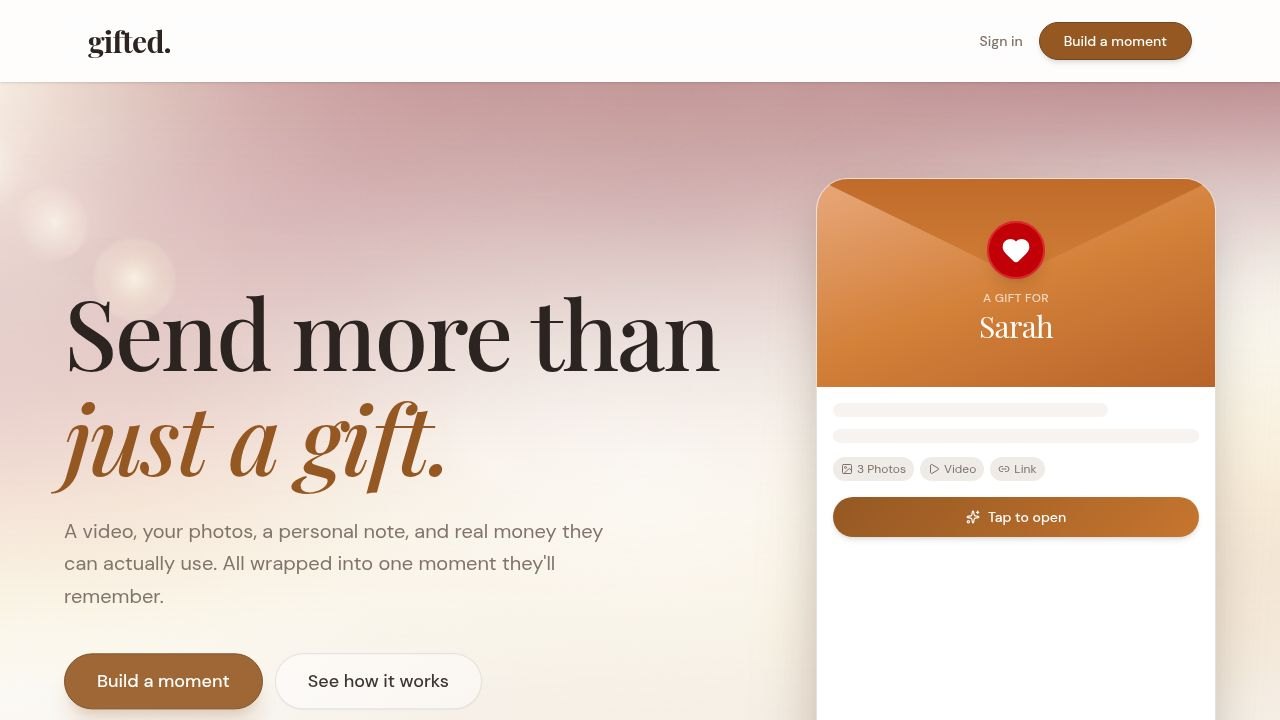
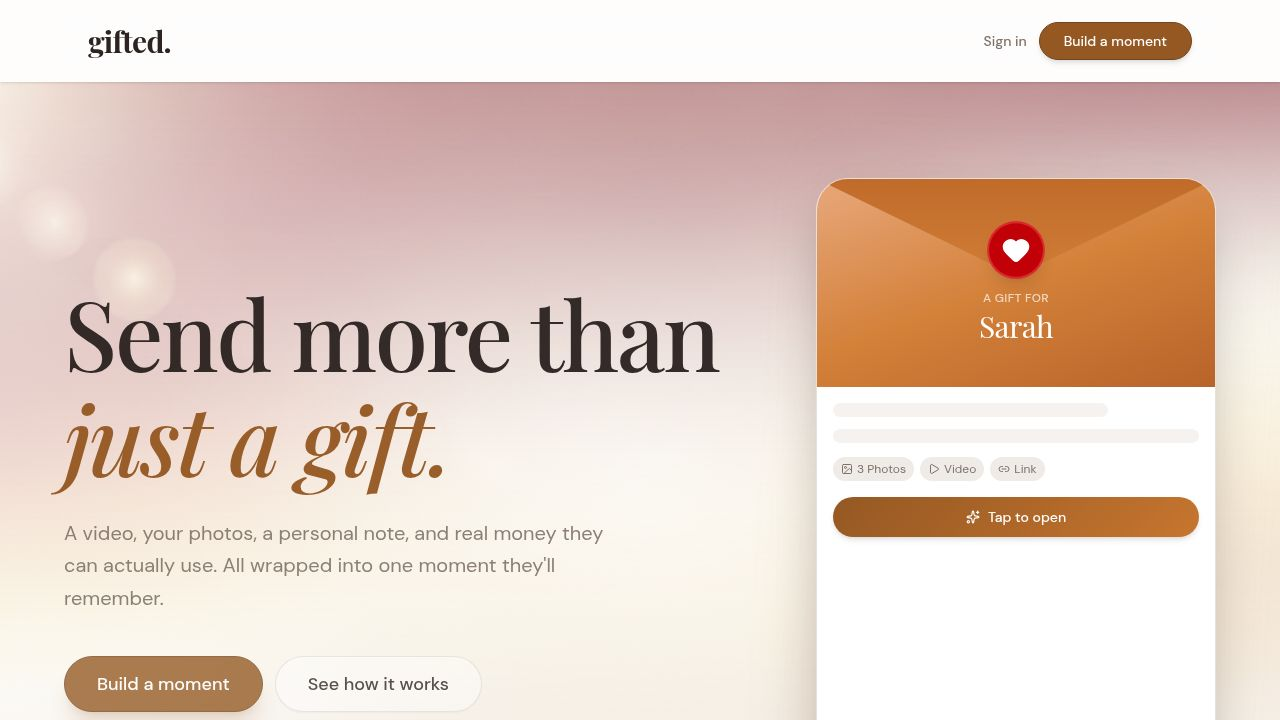
Add optional occasion details to contact forms and update navigation
Add a "My Gifts" link and notification icon to the navigation for authenticated users. Enhance the contact form to include an optional occasion section with fields for label, month, and day. Also, make the back link on the account page more descriptive.

Replit-Commit-Author: Agent
Replit-Commit-Session-Id: 690b6bda-22b3-4b46-8788-3d3ea9f7ed15
Replit-Commit-Checkpoint-Type: full_checkpoint
Replit-Commit-Event-Id: 18842ae0-4f68-4165-a854-bc976afd1a5d
Replit-Commit-Screenshot-Url: https://storage.googleapis.com/screenshot-production-us-central1/d0a4da48-153e-45a8-be82-d792a978206f/690b6bda-22b3-4b46-8788-3d3ea9f7ed15/vFPnjNm
Replit-Helium-Checkpoint-Created: true

diff --git a/artifacts/gifted/src/components/layout.tsx b/artifacts/gifted/src/components/layout.tsx
@@ -9,7 +9,7 @@ import {
   DropdownMenuSeparator,
   DropdownMenuTrigger,
 } from "@/components/ui/dropdown-menu";
-import { User, Gift, LogOut, ChevronDown, Settings } from "lucide-react";
+import { User, Gift, LogOut, ChevronDown, Settings, Bell } from "lucide-react";
 import { clearGiftSession } from "@/lib/session";
 
 export function Layout({ children }: { children: React.ReactNode }) {
@@ -41,43 +41,58 @@ export function Layout({ children }: { children: React.ReactNode }) {
           <a href="/" onClick={handleLogoClick} className="font-serif text-3xl font-bold text-foreground tracking-tight hover:opacity-80 transition-opacity cursor-pointer">
             gifted.
           </a>
-          <nav className="flex items-center gap-4">
+          <nav className="flex items-center gap-3">
             {!isLoading && (
               isAuthenticated && user ? (
-                <DropdownMenu>
-                  <DropdownMenuTrigger asChild>
-                    <button className="flex items-center gap-2 text-sm font-medium text-muted-foreground hover:text-foreground transition-colors px-2 py-1 rounded-full">
-                      {user.profileImageUrl ? (
-                        <img src={user.profileImageUrl} alt="" className="w-7 h-7 rounded-full object-cover" />
-                      ) : (
-                        <div className="w-7 h-7 rounded-full bg-primary/10 flex items-center justify-center">
-                          <User className="w-4 h-4 text-primary" />
-                        </div>
-                      )}
-                      <span className="hidden sm:block">{displayName}</span>
-                      <ChevronDown className="w-3.5 h-3.5 opacity-60" />
-                    </button>
-                  </DropdownMenuTrigger>
-                  <DropdownMenuContent align="end" className="w-52 rounded-2xl">
-                    <DropdownMenuItem asChild>
-                      <Link href="/my-gifts" className="flex items-center gap-2 cursor-pointer">
-                        <Gift className="w-4 h-4" />
-                        My Gifts
-                      </Link>
-                    </DropdownMenuItem>
-                    <DropdownMenuItem asChild>
-                      <Link href="/account" className="flex items-center gap-2 cursor-pointer">
-                        <Settings className="w-4 h-4" />
-                        Account settings
-                      </Link>
-                    </DropdownMenuItem>
-                    <DropdownMenuSeparator />
-                    <DropdownMenuItem onClick={logout} className="flex items-center gap-2 cursor-pointer text-muted-foreground">
-                      <LogOut className="w-4 h-4" />
-                      Sign out
-                    </DropdownMenuItem>
-                  </DropdownMenuContent>
-                </DropdownMenu>
+                <>
+                  <Link
+                    href="/my-gifts"
+                    className={`hidden sm:flex items-center gap-1.5 text-sm font-medium transition-colors px-3 py-1.5 rounded-full hover:bg-secondary ${location === "/my-gifts" ? "text-foreground bg-secondary" : "text-muted-foreground"}`}
+                  >
+                    <Gift className="w-3.5 h-3.5" />
+                    My Gifts
+                  </Link>
+                  <Link
+                    href="/my-gifts"
+                    aria-label="Notifications"
+                    className="relative flex items-center justify-center w-8 h-8 rounded-full text-muted-foreground hover:text-foreground hover:bg-secondary transition-colors"
+                  >
+                    <Bell className="w-4 h-4" />
+                  </Link>
+                  <DropdownMenu>
+                    <DropdownMenuTrigger asChild>
+                      <button className="flex items-center gap-1.5 text-sm font-medium text-muted-foreground hover:text-foreground transition-colors px-2 py-1 rounded-full">
+                        {user.profileImageUrl ? (
+                          <img src={user.profileImageUrl} alt="" className="w-7 h-7 rounded-full object-cover" />
+                        ) : (
+                          <div className="w-7 h-7 rounded-full bg-primary/10 flex items-center justify-center">
+                            <User className="w-4 h-4 text-primary" />
+                          </div>
+                        )}
+                        <ChevronDown className="w-3 h-3 opacity-60" />
+                      </button>
+                    </DropdownMenuTrigger>
+                    <DropdownMenuContent align="end" className="w-52 rounded-2xl">
+                      <DropdownMenuItem asChild>
+                        <Link href="/my-gifts" className="flex items-center gap-2 cursor-pointer sm:hidden">
+                          <Gift className="w-4 h-4" />
+                          My Gifts
+                        </Link>
+                      </DropdownMenuItem>
+                      <DropdownMenuItem asChild>
+                        <Link href="/account" className="flex items-center gap-2 cursor-pointer">
+                          <Settings className="w-4 h-4" />
+                          Account settings
+                        </Link>
+                      </DropdownMenuItem>
+                      <DropdownMenuSeparator />
+                      <DropdownMenuItem onClick={logout} className="flex items-center gap-2 cursor-pointer text-muted-foreground">
+                        <LogOut className="w-4 h-4" />
+                        Sign out
+                      </DropdownMenuItem>
+                    </DropdownMenuContent>
+                  </DropdownMenu>
+                </>
               ) : (
                 <Link href="/sign-in"
                   className="text-sm font-medium text-muted-foreground hover:text-foreground transition-colors"

diff --git a/artifacts/gifted/src/pages/my-gifts.tsx b/artifacts/gifted/src/pages/my-gifts.tsx
@@ -812,6 +812,10 @@ function AddContactForm({ onSaved, onCancel }: { onSaved: () => void; onCancel: 
   const [saving, setSaving] = useState(false);
   const [error, setError] = useState("");
   const [importing, setImporting] = useState(false);
+  const [showOccasion, setShowOccasion] = useState(false);
+  const [occasionLabel, setOccasionLabel] = useState("Birthday");
+  const [occasionMonth, setOccasionMonth] = useState(1);
+  const [occasionDay, setOccasionDay] = useState(1);
 
   async function handleImportFromContacts() {
     setImporting(true);
@@ -842,6 +846,15 @@ function AddContactForm({ onSaved, onCancel }: { onSaved: () => void; onCancel: 
         body: JSON.stringify({ name, phone, email }),
       });
       if (!res.ok) throw new Error("Failed to save");
+      const contact = await res.json() as { id: string };
+      if (showOccasion) {
+        await fetch(`${BASE}/api/gifted/contacts/${contact.id}/occasions`, {
+          method: "POST",
+          headers: { "Content-Type": "application/json" },
+          credentials: "include",
+          body: JSON.stringify({ label: occasionLabel, month: occasionMonth, day: occasionDay }),
+        });
+      }
       onSaved();
     } catch {
       setError("Couldn't save — please try again.");
@@ -878,6 +891,55 @@ function AddContactForm({ onSaved, onCancel }: { onSaved: () => void; onCancel: 
           <Input value={phone} onChange={e => setPhone(e.target.value)} placeholder="Phone (optional)" className="rounded-xl h-10" />
           <Input value={email} onChange={e => setEmail(e.target.value)} placeholder="Email (optional)" className="rounded-xl h-10" type="email" />
         </div>
+
+        {/* Optional occasion */}
+        {!showOccasion ? (
+          <button
+            type="button"
+            onClick={() => setShowOccasion(true)}
+            className="flex items-center gap-1.5 text-xs text-primary hover:text-primary/80 transition-colors self-start"
+          >
+            <Cake className="w-3.5 h-3.5" />
+            Add an occasion (optional)
+          </button>
+        ) : (
+          <div className="flex flex-col gap-2 pt-2 border-t border-border">
+            <div className="flex items-center justify-between">
+              <span className="text-xs font-medium text-muted-foreground">Occasion</span>
+              <button
+                type="button"
+                onClick={() => setShowOccasion(false)}
+                className="text-xs text-muted-foreground/60 hover:text-muted-foreground transition-colors"
+              >
+                Remove
+              </button>
+            </div>
+            <div className="flex flex-wrap gap-2">
+              <select
+                value={occasionLabel}
+                onChange={e => setOccasionLabel(e.target.value)}
+                className="text-xs border border-border rounded-lg px-2 py-1.5 bg-background text-foreground flex-1 min-w-[120px]"
+              >
+                {OCCASION_LABELS.map(l => <option key={l} value={l}>{l}</option>)}
+              </select>
+              <select
+                value={occasionMonth}
+                onChange={e => setOccasionMonth(Number(e.target.value))}
+                className="text-xs border border-border rounded-lg px-2 py-1.5 bg-background text-foreground"
+              >
+                {MONTH_NAMES.map((m, i) => <option key={m} value={i + 1}>{m}</option>)}
+              </select>
+              <select
+                value={occasionDay}
+                onChange={e => setOccasionDay(Number(e.target.value))}
+                className="text-xs border border-border rounded-lg px-2 py-1.5 bg-background text-foreground"
+              >
+                {Array.from({ length: 31 }, (_, i) => i + 1).map(d => <option key={d} value={d}>{d}</option>)}
+              </select>
+            </div>
+          </div>
+        )}
+
         {error && <p className="text-xs text-destructive">{error}</p>}
         <div className="flex gap-2">
           <Button type="button" variant="outline" size="sm" onClick={onCancel} className="rounded-full">Cancel</Button>

diff --git a/artifacts/gifted/src/pages/account.tsx b/artifacts/gifted/src/pages/account.tsx
@@ -104,18 +104,17 @@ export default function AccountPage() {
         transition={{ duration: 0.4, ease: [0.16, 1, 0.3, 1] }}
         className="space-y-8"
       >
-        <div className="flex items-center gap-3">
+        <div className="flex flex-col gap-1">
           <button
             type="button"
             onClick={() => setLocation("/my-gifts")}
-            className="text-muted-foreground hover:text-foreground transition-colors"
+            className="flex items-center gap-1.5 text-sm text-muted-foreground hover:text-foreground transition-colors self-start"
           >
-            <ArrowLeft className="w-5 h-5" />
+            <ArrowLeft className="w-4 h-4" />
+            My Gifts
           </button>
-          <div>
-            <h1 className="font-serif text-3xl font-medium">Account settings</h1>
-            <p className="text-muted-foreground text-sm mt-0.5">{user?.email}</p>
-          </div>
+          <h1 className="font-serif text-3xl font-medium mt-2">Account settings</h1>
+          <p className="text-muted-foreground text-sm">{user?.email}</p>
         </div>
 
         <form onSubmit={handleSave} className="space-y-8">